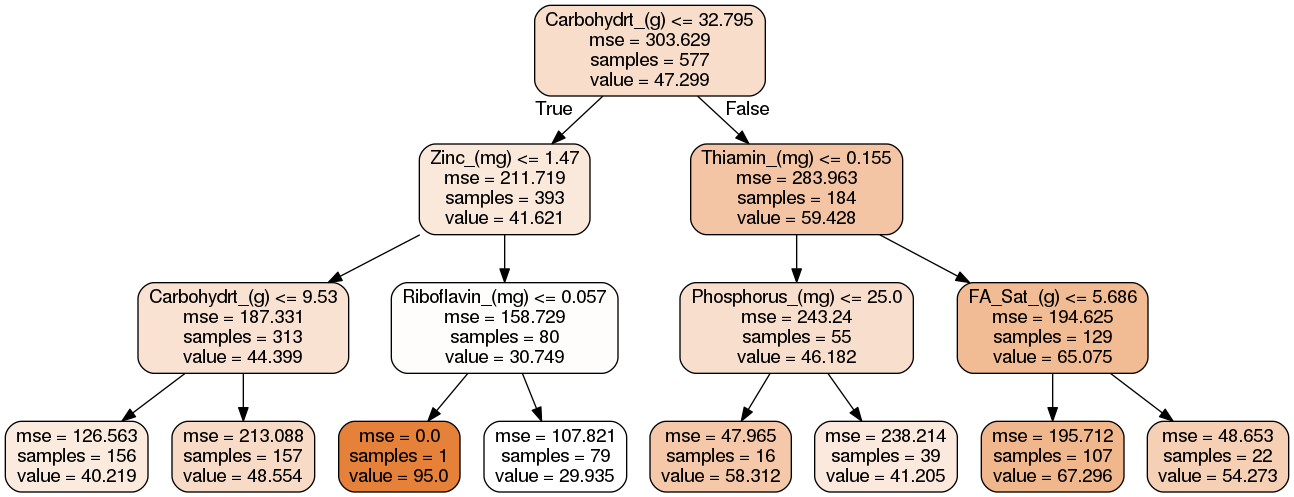
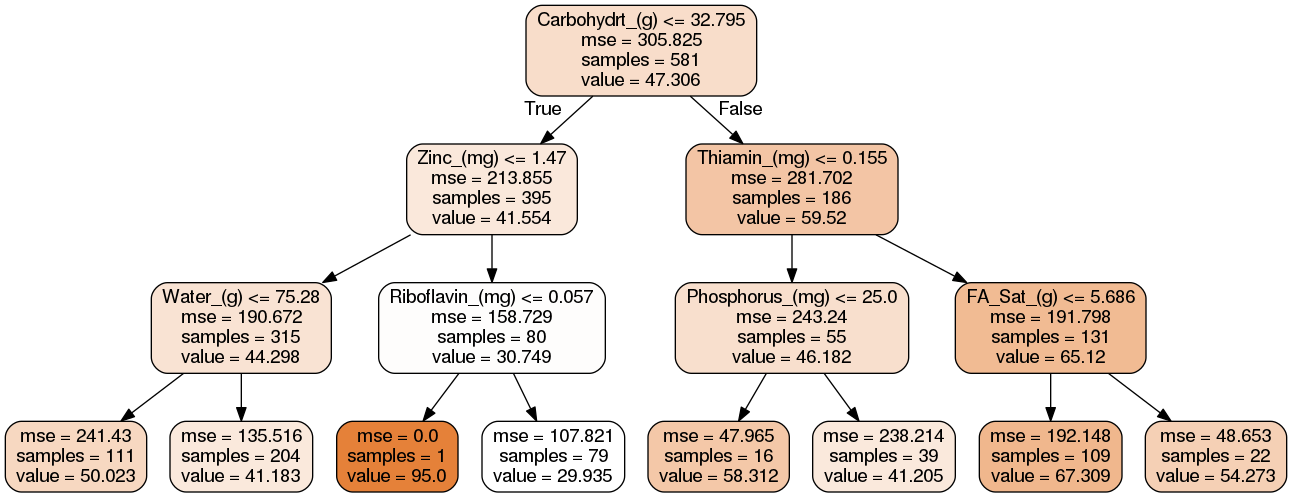
fix correlation

diff --git a/Plot_Graphs/food_vs_food.py b/Plot_Graphs/food_vs_food.py
@@ -26,25 +26,29 @@ if __name__ == '__main__':
 
     gi_usda_df = gi_usda_df.transpose()
 
-    # os.chdir(os.getcwd()[:os.getcwd().index("Plot_Graphs")] + "Excel_files")
-    # distances = pd.read_excel("Euclidean_distance_without_names_in_rows.xlsx")
-    #
-    # distances[distances > 1500] = 1500
-
     writer = pd.ExcelWriter('trans_df.xlsx', engine='xlsxwriter')
     gi_usda_df.to_excel(writer, sheet_name='Sheet1')
     writer.save()
 
     rows_corr = gi_usda_df.corr()
+
+    #remove first row and first col
+    #rows_corr = rows_corr.iloc[1:]
+    # writer = pd.ExcelWriter('corr_df.xlsx', engine='xlsxwriter')
+    # rows_corr.to_excel(writer, sheet_name='Sheet1')
+    # writer.save()
+
+    rows_corr.reset_index(drop=True, inplace=True)
     rows_corr.to_csv("rows_correlation.csv")
 
-    #food_groups = pd.read_excel("GI_USDA_CLEAN_FOOD_GROUPS.xlsx")
-    #species = food_groups.pop("FdGrp_desc")
-    #lut = dict(zip(species.unique(), sns.hls_palette(len(set(species.unique())), l=0.5, s=0.8)))
-    #row_colors = species.map(lut)
-    #g = sns.clustermap(rows_corr, row_colors=row_colors, figsize=(13, 13), metric="correlation")
+    food_groups = pd.read_excel("GI_USDA_CLEAN_FOOD_GROUPS.xlsx")
 
-    g = sns.clustermap(rows_corr, figsize=(13, 13), metric="correlation")
+    species = food_groups.pop("FdGrp_desc")
+    lut = dict(zip(species.unique(), sns.hls_palette(len(set(species.unique())), l=0.5, s=0.8)))
+    row_colors = species.map(lut)
+    g = sns.clustermap(rows_corr, row_colors=row_colors, figsize=(13, 13), metric="correlation")
+
+    # g = sns.clustermap(rows_corr, figsize=(13, 13), metric="correlation")
 
 
     # for tick_label in g.ax_heatmap.axes.get_yticklabels():

diff --git a/Machine_Learning/ML code.py b/Machine_Learning/ML code.py
@@ -125,7 +125,7 @@ if __name__ == '__main__':
     ##########################################################
     # linear regression
     ##########################################################
-
+    #
     # print("\n\nLinear regression model:\n")
     # linear_regression_by_features(['Carbohydrt_(g)'], 'LR_carbo_new_test')
     # linear_regression_by_features(['Carbohydrt_(g)', 'Lipid_Tot_(g)'], 'LR_carbo_lipid_new_test')

diff --git a/Machine_Learning/random_forest.py b/Machine_Learning/random_forest.py
@@ -201,7 +201,7 @@ def predict(X_train, X_test, y_train, y_test, lables, pic_name1, pic_name2):
 
 def plot_graphs(X_test, y_test, cv_predictions, lables, rf_random, pic_name2):
     # Plot outputs
-
+    plt.clf()
     print("mean absolute error: ", mean_absolute_error(y_test, cv_predictions))
     print("r2 error: ", sklearn.metrics.r2_score(y_test, cv_predictions))
 
